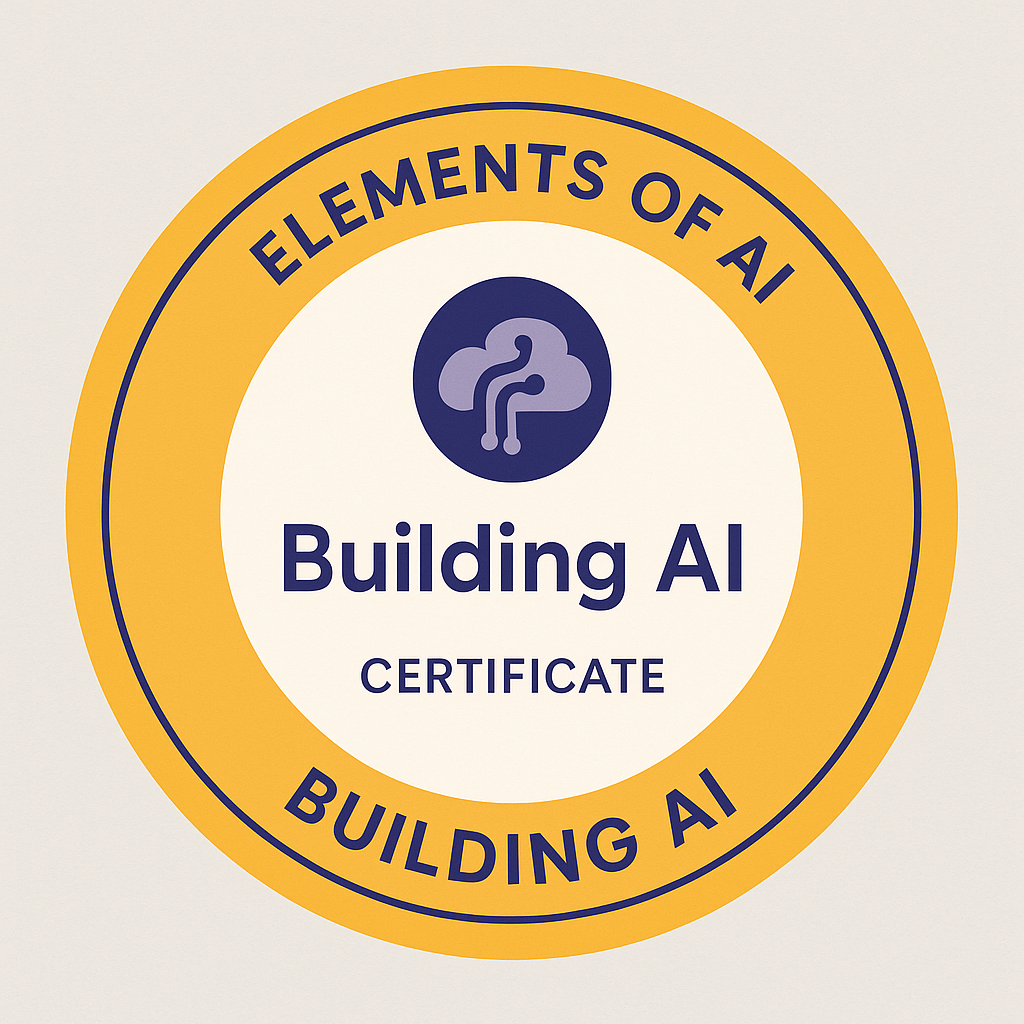
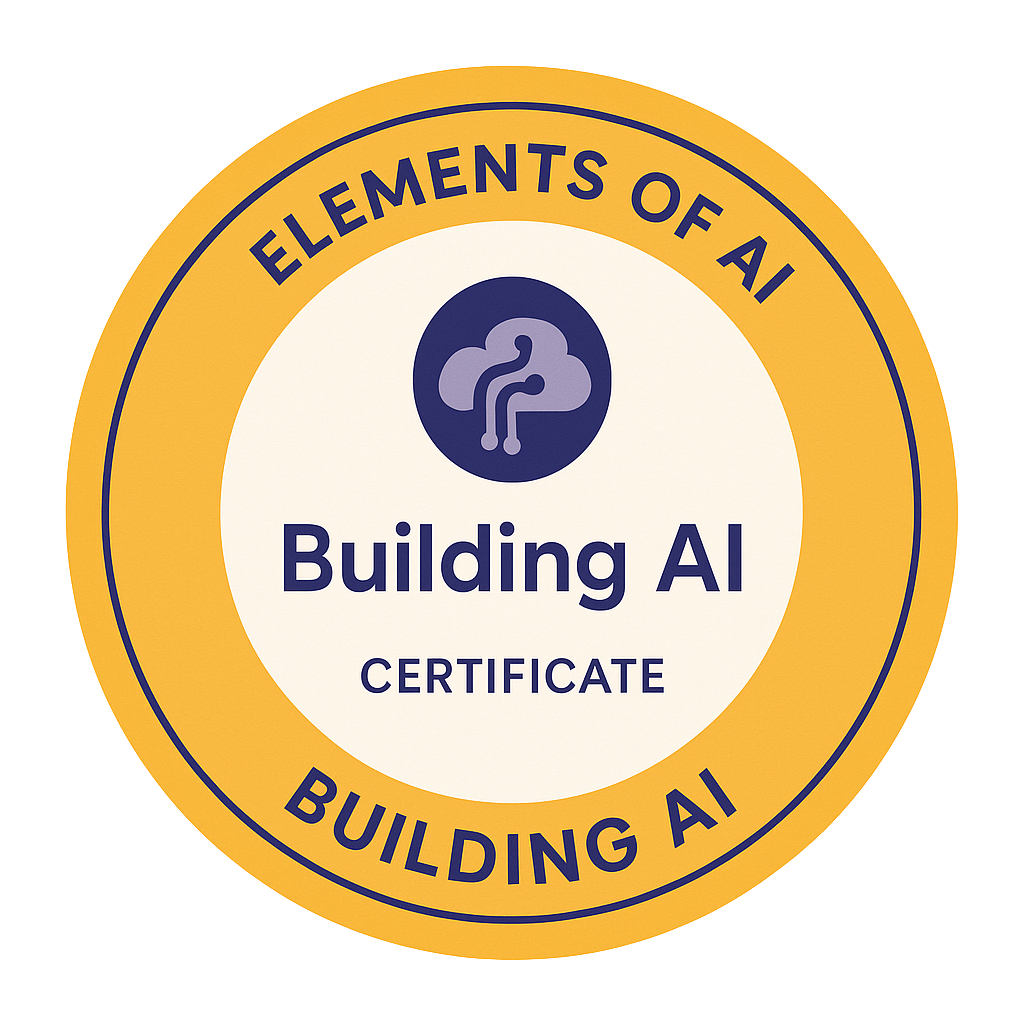
Uplaoded cert badges

diff --git a/README.md b/README.md
@@ -96,7 +96,8 @@ A parchment-themed, storybook-style website that chronicles an epic homebrew D&D
     <img src="https://images.credly.com/size/680x680/images/9e9e7ef7-384f-4636-8743-1b89a68fb46b/image.png" width="120" alt="AWS Cloud Quest: Solutions Architect"/>
   </a>
     <img src="https://github.com/mattyhakin/mattyhakin/blob/main/assets/python-3-cert.png?raw=true" width="120" alt="codeacademy Python 3"/>
-    <img src="https://github.com/mattyhakin/mattyhakin/blob/main/assets/elements-ai-cert.PNG?raw=true" width="120" alt="Elements of AI"/>
+    <img src="https://github.com/mattyhakin/mattyhakin/blob/main/assets/elements-ai-cert.png?raw=true" width="120" alt="Elements of AI"/>
+    <img src="" width="120" alt="Building AI"/>
 </p>
 
 ---
